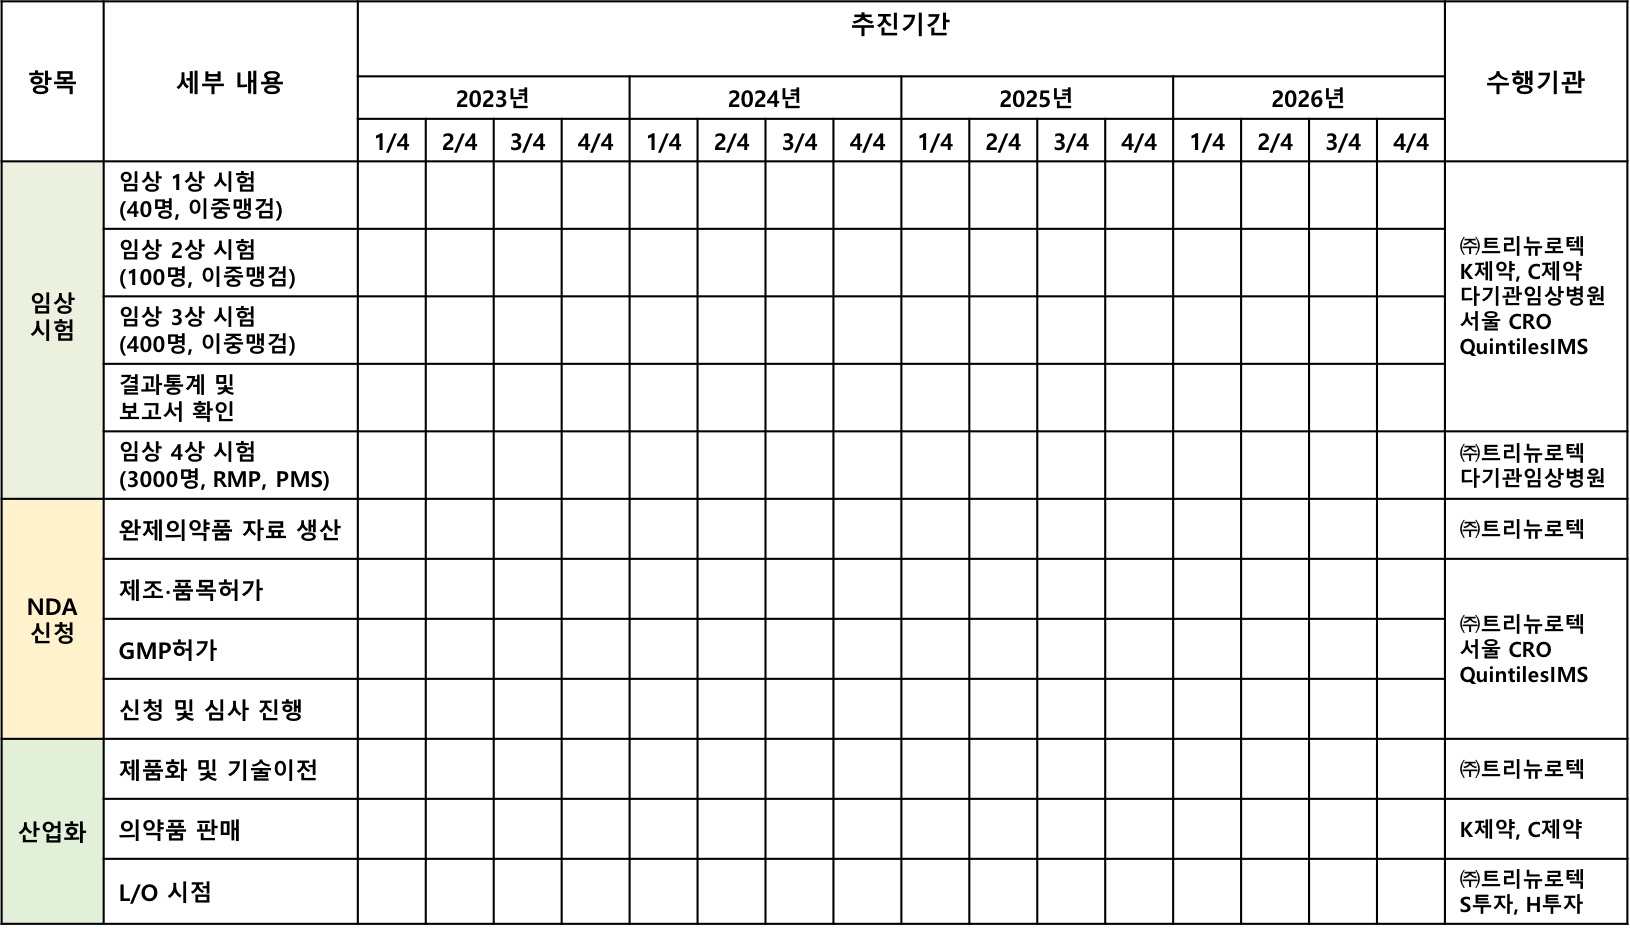
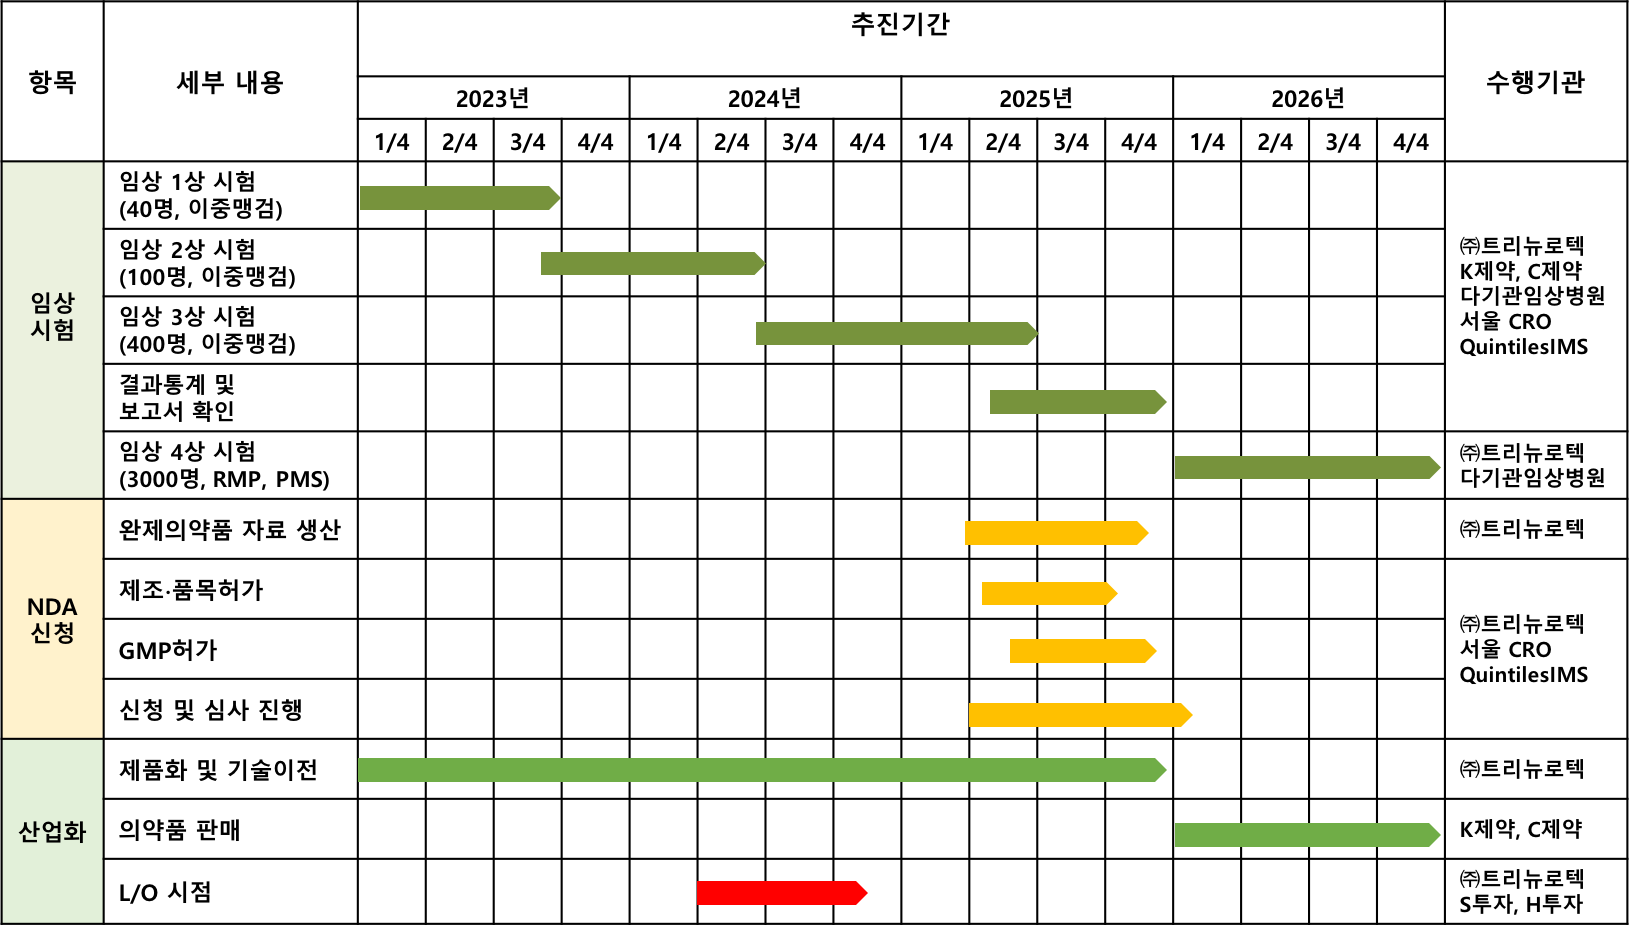
today finsih

diff --git a/research/pipelines_en.html b/research/pipelines_en.html
@@ -73,7 +73,13 @@
           <div class="article-content">
             <p>Trineurotec synthesized about 150 kinds of triple inhibitors to set a chemical library which inhibits DAT, NET and SERT. Based on our chemical library, we make drug pipeline and proceed drug screening. From the pre-clinical experiment, we found that our compounds can also treat depression as well as ADHD.</p>
             <img style="margin-top: 80px;  margin-right: auto; margin-left: auto; width: 700px; height: auto" align="middle"  src="/assets/pipeline.png" alt="pipeline" />
+            <br/>
+            <h3>추진계획</h3>
+            <br/>
             <img style="margin-top: 80px;  margin-right: auto; margin-left: auto; width: 700px; height: auto" align="middle"  src="/assets/추진계획.png" alt="pipeline" />
+            <br/>
+            <h3>현 기술개발 과제의 사업화추진일정</h3>
+            <br/>
             <img style="margin-top: 80px;  margin-right: auto; margin-left: auto; width: 700px; height: auto" align="middle"  src="/assets/사업화일정.png" alt="pipeline" />
           </div>
         </article>
